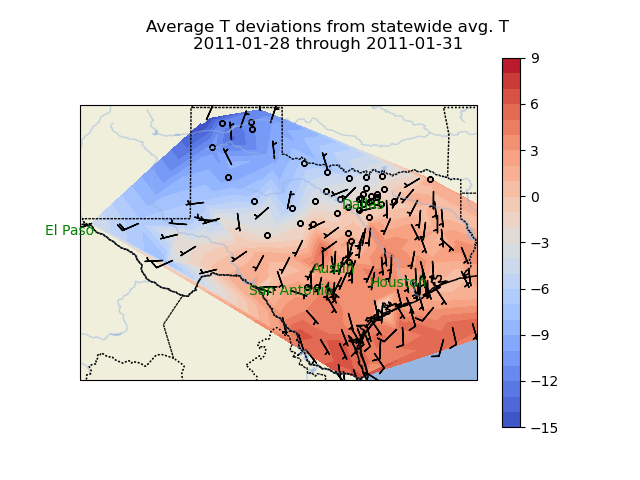
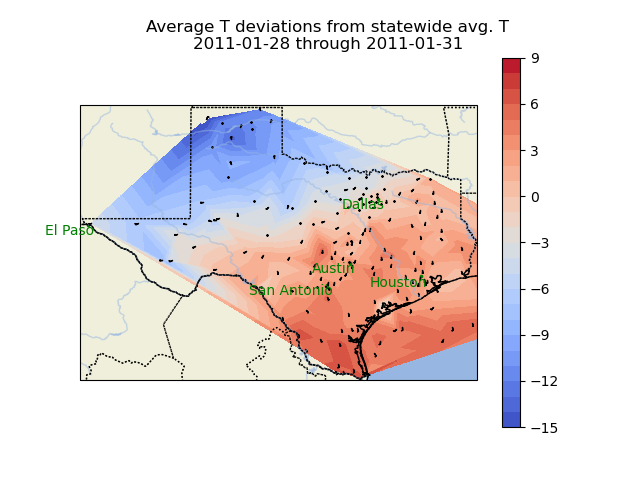
make wind barbs smaller/de-clutter

diff --git a/graphic.py b/graphic.py
@@ -5,7 +5,6 @@ import pandas as pd
 pd.options.mode.chained_assignment = None
 from metpy import calc as mpcalc
 from metpy.units import units
-import csv
 import datetime as dt
 from matplotlib import pyplot as plt
 from scipy.interpolate import griddata
@@ -13,6 +12,7 @@ from cartopy import crs as ccrs
 from cartopy import feature as cfeat
 import numpy as np
 import time
+import xarray as xr
 
 def generatePlot(filename, startDate, endDate):
     # read and parse csv
@@ -174,9 +174,9 @@ def generatePlot(filename, startDate, endDate):
     uWindList = averagedData["uWind"].values
     vWindList = averagedData["vWind"].values
     for idx in range(0, len(windLatList)):
-        avgAx.barbs(np.array([windLonList[idx]]), np.array([windLatList[idx]]), np.array([uWindList[idx]]), np.array([vWindList[idx]]), length=5, transform=ccrs.PlateCarree())
-        highAx.barbs(np.array([windLonList[idx]]), np.array([windLatList[idx]]), np.array([uWindList[idx]]), np.array([vWindList[idx]]), length=5, transform=ccrs.PlateCarree())
-        lowAx.barbs(np.array([windLonList[idx]]), np.array([windLatList[idx]]), np.array([uWindList[idx]]), np.array([vWindList[idx]]), length=5, transform=ccrs.PlateCarree())
+        avgAx.barbs(np.array([windLonList[idx]]), np.array([windLatList[idx]]), np.array([uWindList[idx]]), np.array([vWindList[idx]]), length=2, transform=ccrs.PlateCarree())
+        highAx.barbs(np.array([windLonList[idx]]), np.array([windLatList[idx]]), np.array([uWindList[idx]]), np.array([vWindList[idx]]), length=2, transform=ccrs.PlateCarree())
+        lowAx.barbs(np.array([windLonList[idx]]), np.array([windLatList[idx]]), np.array([uWindList[idx]]), np.array([vWindList[idx]]), length=2, transform=ccrs.PlateCarree())
     
     avgFig.savefig("output-avg-"+ startDate.strftime("%Y-%m-%d") +"-WINDS.png")
     highFig.savefig("output-high-"+ startDate.strftime("%Y-%m-%d") +"-WINDS.png")
